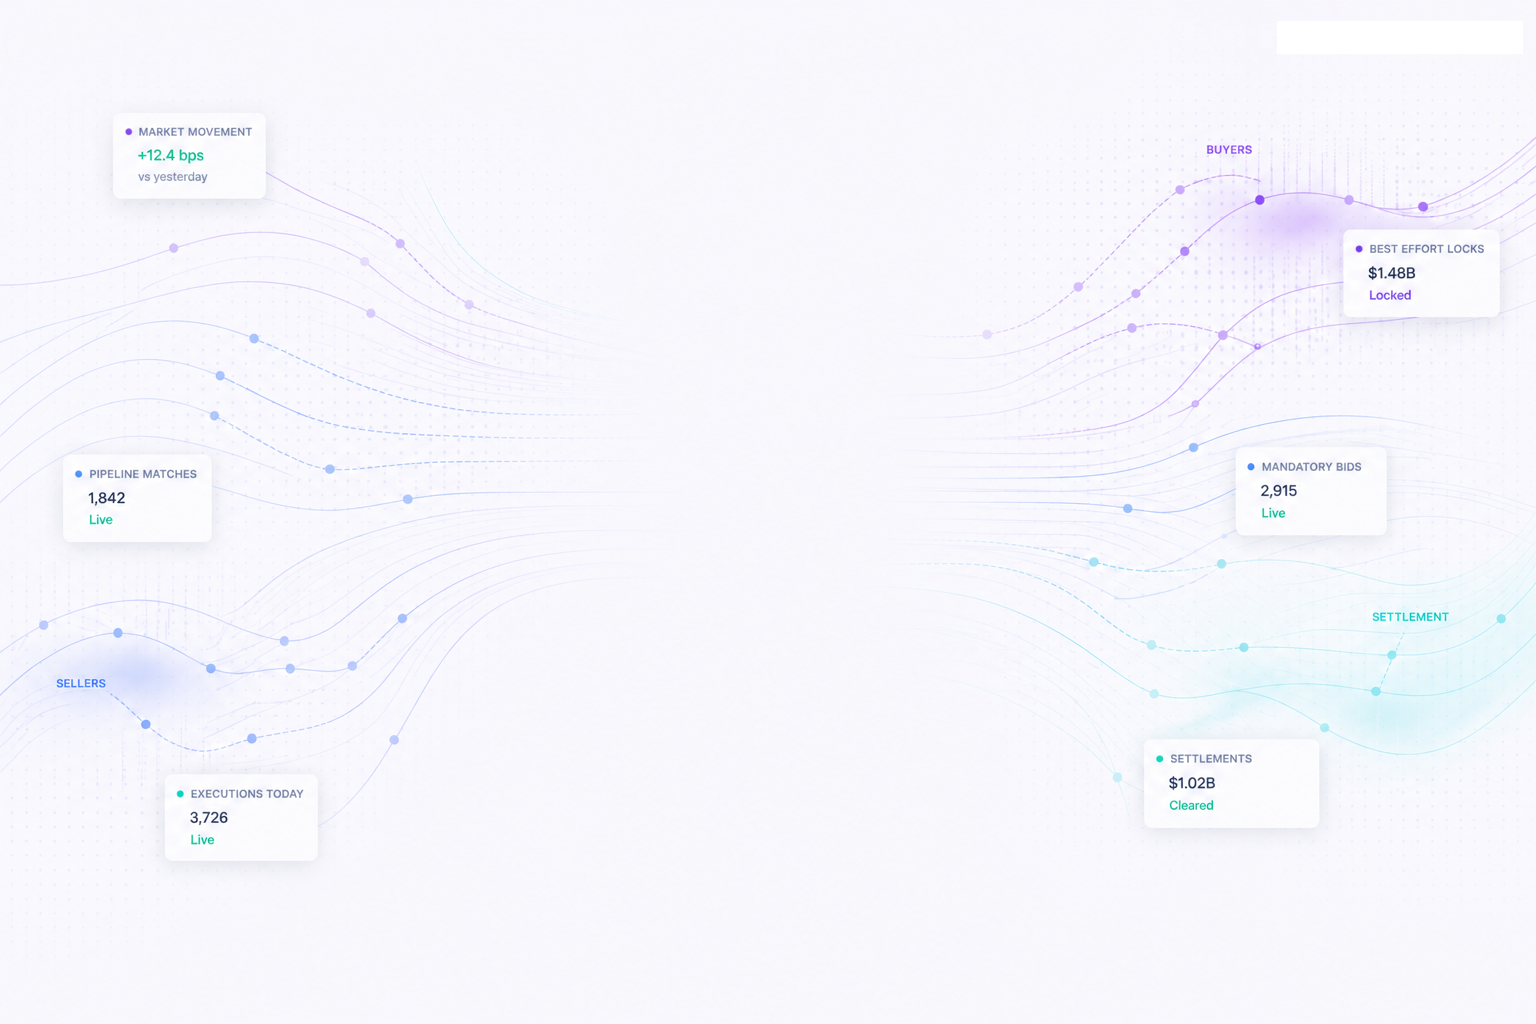
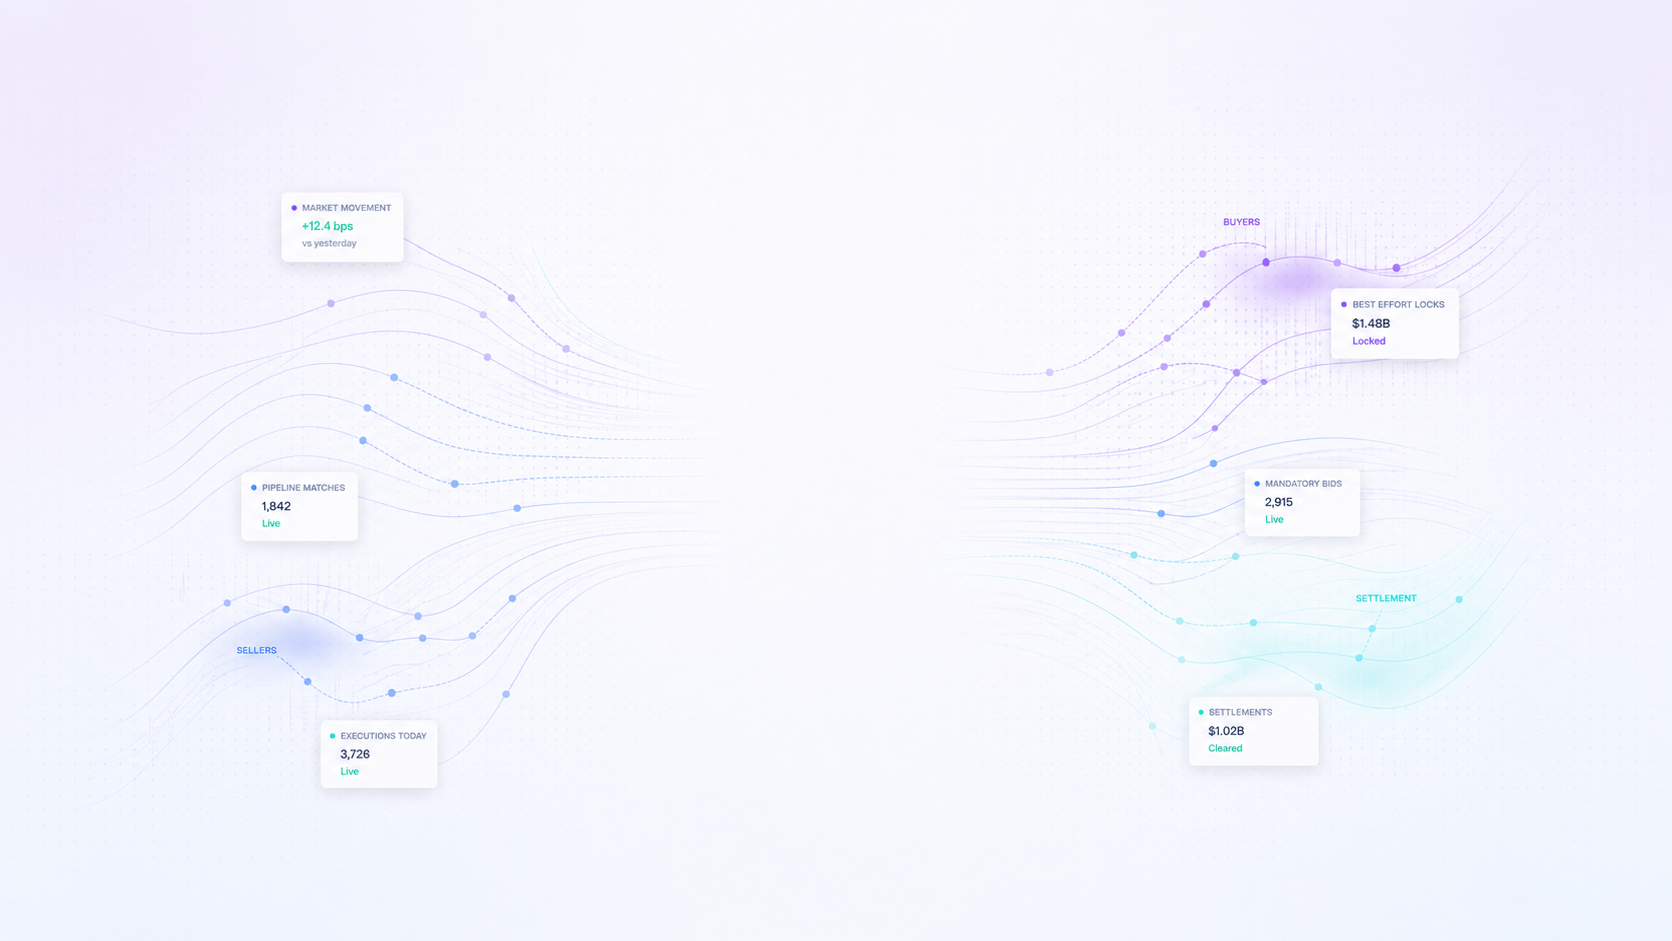
Refine login background rendering for deployment and UX polish.
Update the login page background asset handling and visual blending behavior so the hosted experience matches the intended full-screen presentation.

Made-with: Cursor

diff --git a/Corrtest-main/src/app/pages/v2/LoginPage.tsx b/Corrtest-main/src/app/pages/v2/LoginPage.tsx
@@ -63,15 +63,16 @@ export function LoginPage() {
   }
 
   return (
-    <main className="relative min-h-screen overflow-hidden bg-[var(--colors-background-common-default-grey)]">
-      <div
-        className="absolute inset-0 bg-center bg-no-repeat"
-        style={{
-          backgroundImage: `url(${loginBackground})`,
-          backgroundSize: 'min(1800px, 100vw) auto',
-        }}
+    <main className="relative min-h-screen overflow-hidden bg-white">
+      <img
+        src={loginBackground}
+        alt=""
+        aria-hidden="true"
+        className="absolute inset-0 h-full w-full object-cover object-center"
+        loading="eager"
+        decoding="async"
       />
-      <div className="absolute inset-0 bg-[linear-gradient(180deg,rgba(255,255,255,0.18)_0%,rgba(245,247,252,0.28)_100%)]" />
+      <div className="absolute inset-0 bg-[linear-gradient(180deg,rgba(255,255,255,0.12)_0%,rgba(255,255,255,0.18)_100%)]" />
 
       <div className="relative z-[1] mx-auto flex min-h-screen w-full max-w-[min(100%,92rem)] flex-col px-4 py-6 sm:px-6 sm:py-8">
         <header className="mb-6 flex items-center justify-end gap-5 text-xs text-[var(--colors-text-icon-medium)]">
